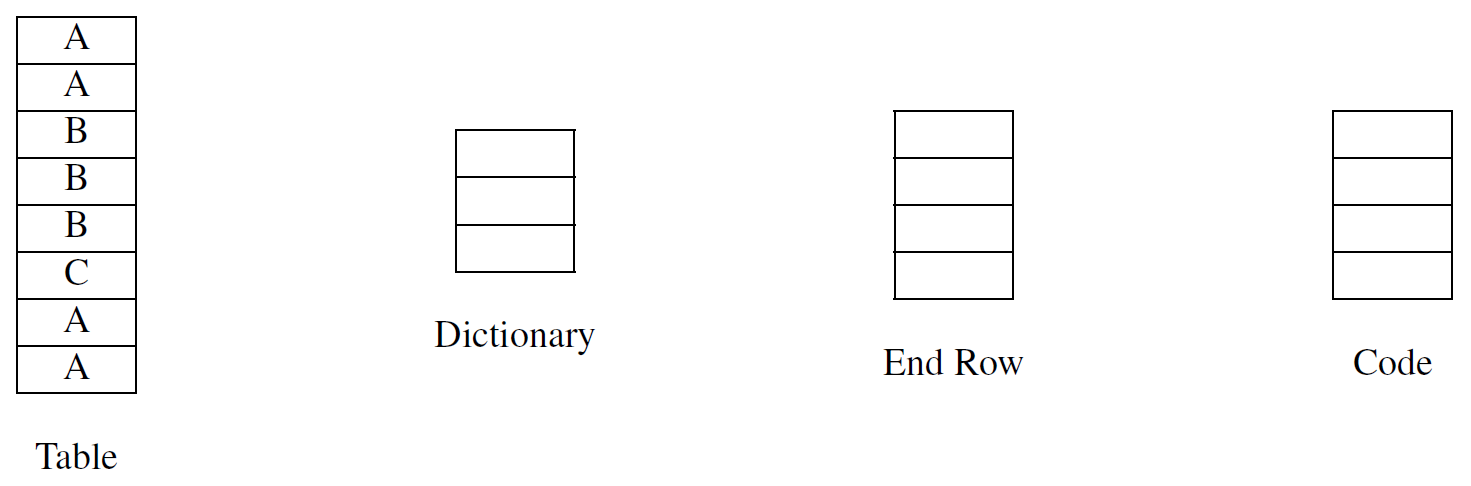
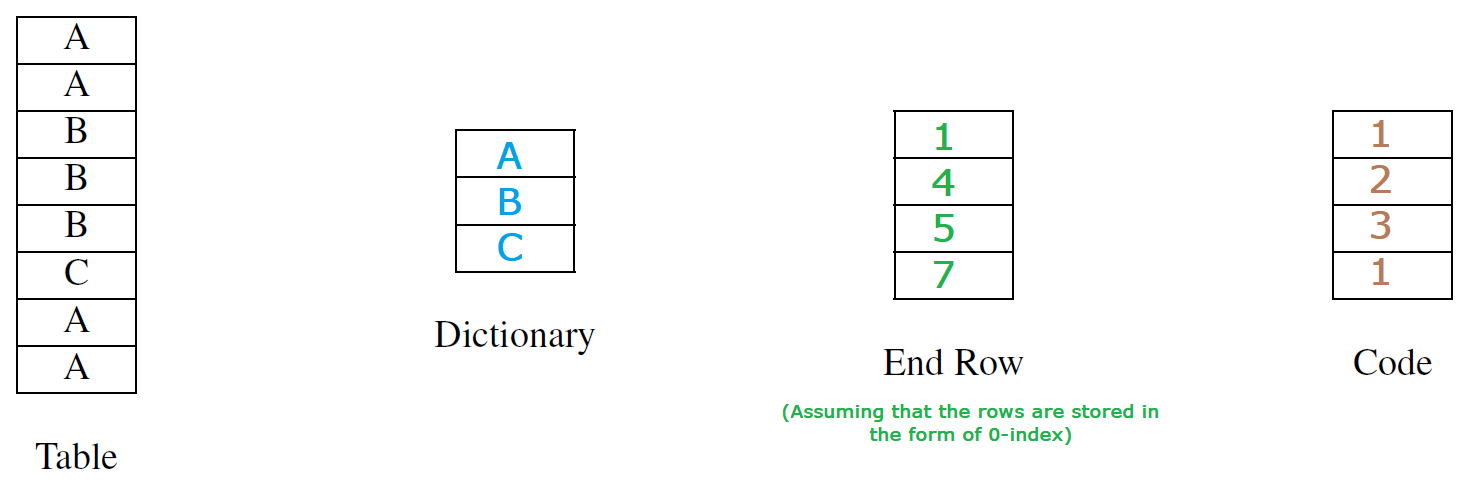
Replaced solution 5n6 with illustrations

diff --git a/Problems BDM/06-New Relational Architecture.md b/Problems BDM/06-New Relational Architecture.md
@@ -9,33 +9,46 @@
 1. Assume you have a SanssouciuDB table T stored **row-wise**, which occupies 300 blocks and contains tuples with three variable length attributes [<u>A</u>, B, C] (underlined attribute is declared to be the primary key of the table). Assume there is **no index** and give the **average cost** of each query assuming accessing one block is one second.
     - `SELECT A,B,C FROM T WHERE A=x; # (being x a constant)`
 
-    300s would be the cost for full sequencial cost for worst case if we've to read all. But it is possible that we can find the solution anywhere in between therefore the average cost is average between best and worst case.
-    $$
-    \frac{{1 + 300}}{2} = 150.5s
-    $$
+        ***
+
+        300s would be the cost for full sequencial cost for worst case if we've to read all. But it is possible that we can find the solution anywhere in between therefore the average cost is average between best and worst case.
+
+        $$
+        \text{Average Cost}=\frac{{1 + 300}}{2} = 150.5s
+        $$
 
 
     - `SELECT SUM(B) FROM T;`
 
-    Since we are aggregating all records therefore the answer is 300s.
+        ***
+        
+        Since we are aggregating all records therefore the answer is 300s.
+        
 
 2. Assume you have a SanssouciuDB table T stored **column-wise**, which occupies 300 blocks and contains tuples with three attributes [<u>A</u>, B, C] (underlined attribute is declared to be the primary key of the table). Assume there is **no index**, storage of each attribute uses exactly the same space after compression (i.e., 100 blocks), and run length encoding has been applied for non-key attributes storing ending row position per run. Give the **average cost** of each query assuming accessing one block is one second and explicit any other assumption you make.
     - `SELECT A,B,C FROM T WHERE A=x; # (being x a constant)`
 
         Same as before the average of best(1s) and worst case(100s):
 
+        ***
+        
         $$
-        \frac{{1 + 100}}{2} = 50.5s
+        \text{Average Cost}=\frac{{1 + 100}}{2} = 50.5s
         $$
+        
 
         But there could be a possibility while mapping the column B and C to A after filtering hence we can add a safe margin of 1 more in which case the mapping would be either at upper or down position by at most 1 position and the revised equation would look like:
 
+
         $$
-        \frac{{1 + 100}}{2} + 1(\text{for Col }B) + 1(\text{for Col }C) = 52.5s
+        \text{Average Cost}=\frac{{1 + 100}}{2} + 1(\text{for Col }B) + 1(\text{for Col }C) = 52.5s
         $$
+        
 
     - `SELECT SUM(B) FROM T;`
 
+        ***
+        
         $$
         100s
         $$
@@ -50,11 +63,15 @@
     
     - Row storage
 
-        8kb is enough, because we process one block at a time in memmory which is 8kb. 
+        ***
+
+        $ 8kb $ is enough, because we process one block at a time in memmory which is $ 8kb $. 
 
     - Column storage
 
-        We need three blocks (24kb) since we need to filter B and C. The reason we need the third block is we've to retrieve the A as part of selection for which we need memory.
+        ***
+
+        We need three blocks $ (24kb) $ since we need to filter B and C. The reason we need the third block is we've to retrieve the A as part of selection for which we need memory.
 
 4. Without considering compression and assuming a disk block size of 8KB, is there any case where a query retrieving all tuples, but only half of the equally-sized attributes of a relational table performs better in **row storage** without any kind of vertical partitioning than in columnar storage? Numerically justify your answer.
 
@@ -63,22 +80,31 @@
 5. Represent the given column with dictionary and run-length encoding storing end row position.
     
     ![Untitled](06-New%20Relational%20Architecture/Untitled.png)
+    
+    ***
 
-    Dictionary: A, B, C
-    
-    End Row: 1, 4, 5, 7 (Assuming that the rows are stored in the form of 0-index)
-    
-    Code: 1, 2, 3, 1
+    Solution embeded with image in highlighted colors ☝
 
     
 6. Given the two columns of a table represented with run-length encoding using dictionary, give the position of the row(s) that fulfill the predicate ”Charlie AND Beta”. Briefly explain how a column store would obtain them.
     
     ![Untitled](06-New%20Relational%20Architecture/Untitled%201.png)
+    
+    ***
 
-    Column 1 – Bravo, Bravo, NULL, NULL, NULL, Charlie, Charlie, Charlie
-    Column 2 – Alpha, NULL, NULL, NULL, NULL, NULL, Beta, Beta
+    | Column 1 | Column 2 |
+    |----------|----------|
+    | Bravo    | Alpha    |
+    | Bravo    | NULL     |
+    | NULL     | NULL     |
+    | NULL     | NULL     |
+    | NULL     | NULL     |
+    | Charlie  | NULL     |
+    | Charlie  | Beta     |
+    | Charlie  | Beta     |
+
     
     Row Positions obtained in query predicate: 6 and 7.
     
-    Explanation – A columnar store database will first convert the number of values stored to rows ending positions, thus we will get [1, 4, 7] and [0, 5, 7] for columns 1 and 2 respectively. Then, checking for predicate Charlie (in the range of 5-7) and Beta (in the range of (6-7) => ANDing gets us rows 6-7, which is our required answer.
+    **Explanation** – A columnar store database will first convert the number of values stored to rows ending positions, thus we will get [1, 4, 7] and [0, 5, 7] for columns 1 and 2 respectively. Then, checking for predicate Charlie (in the range of 5-7) and Beta (in the range of (6-7) => ANDing gets us rows 6-7, which is our required answer.
 
